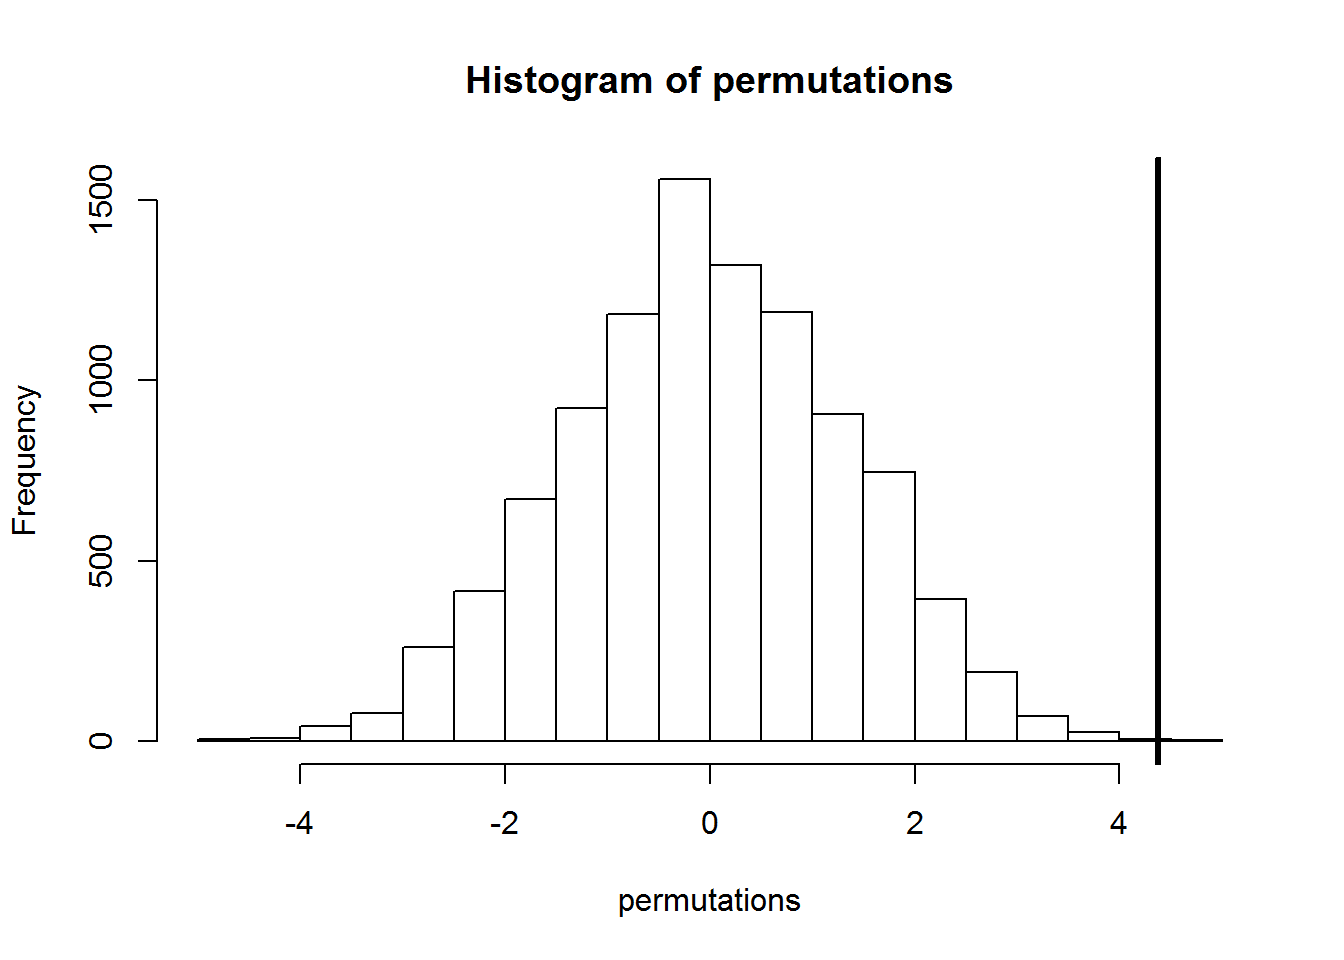
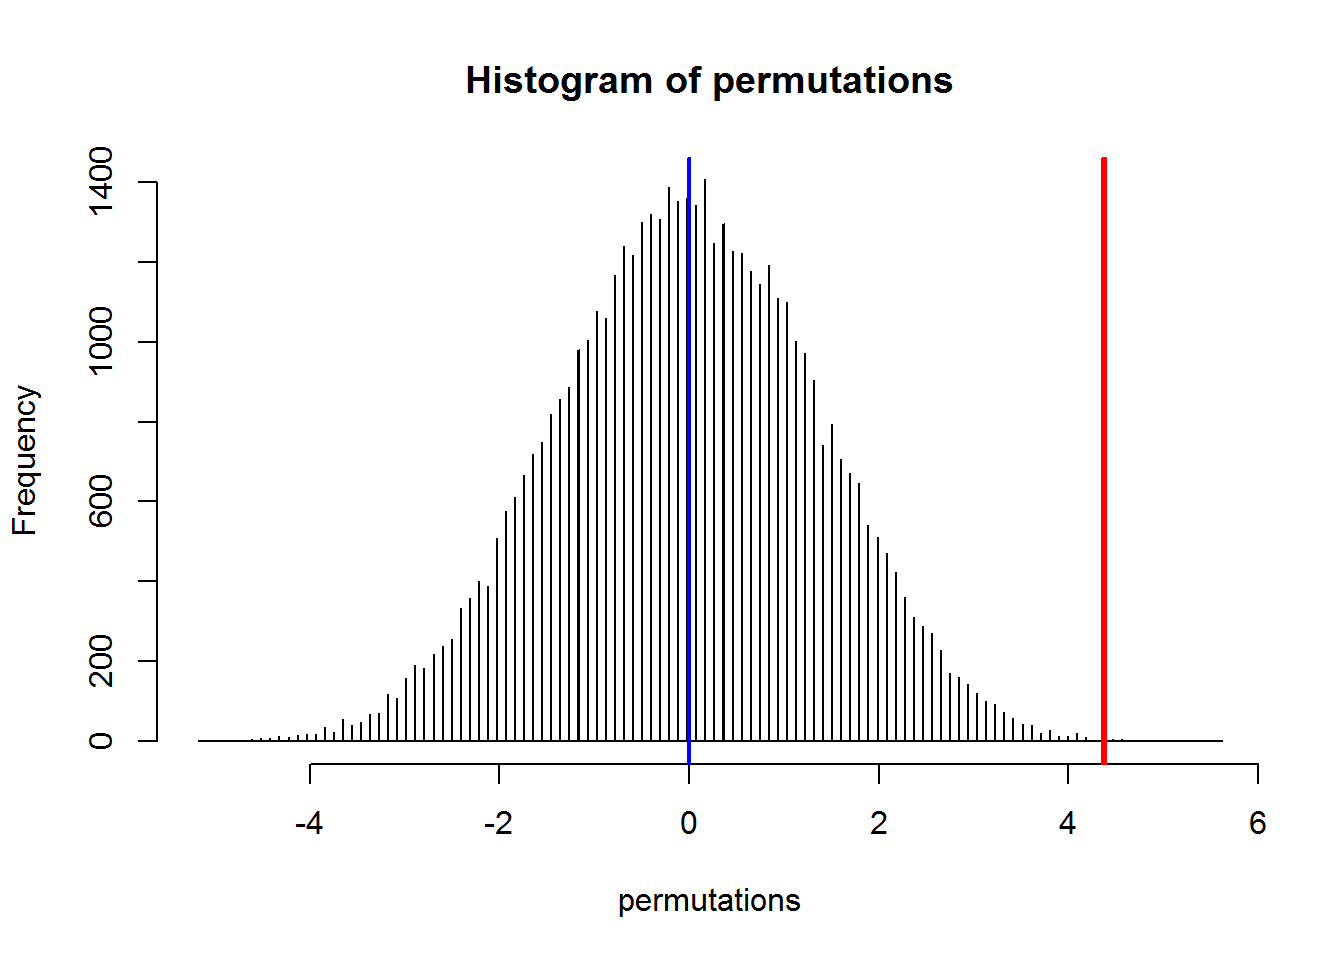
13

diff --git a/Simple statistic/Simple_statistic.html b/Simple statistic/Simple_statistic.html
@@ -135,13 +135,21 @@ t.test(Count ~ Type, data = dataset)$conf.int
 <div id="permutation-test" class="section level2">
 <h2>Permutation test</h2>
 <pre class="r"><code>group &lt;- as.character(dataset$Type)
-testStat &lt;- function(w, g) {mean(w[g == &quot;Beer&quot;]) - mean(w[g == &quot;Water&quot;])}
-observedStat &lt;- testStat(dataset$Count, group)
-permutations &lt;- sapply(1 : 10000, function(i) testStat(dataset$Count, sample(group)))
 
-hist(permutations)
-abline(v = observedStat, lwd=3)</code></pre>
[1 lines of base64/hex data omitted]
+testStat &lt;- function(w, g) {mean(w[g == &quot;Beer&quot;]) - mean(w[g == &quot;Water&quot;])}
+
+observedStat &lt;- testStat(dataset$Count, group)
+observedStat
+## [1] 4.377778
+
+permutations &lt;- sapply(1 : 50000, function(i) testStat(dataset$Count, sample(group)))
+mean(permutations &gt; observedStat)
+## [1] 4e-04
+
+hist(permutations, col = &quot;#62829C&quot;, breaks = 50000)
+abline(v = observedStat, lwd=3, col = &quot;red&quot;)
+abline(v = 0, lwd=2, col = &quot;blue&quot;, se = FALSE)</code></pre>
[1 lines of base64/hex data omitted]
 </div>
 
 
